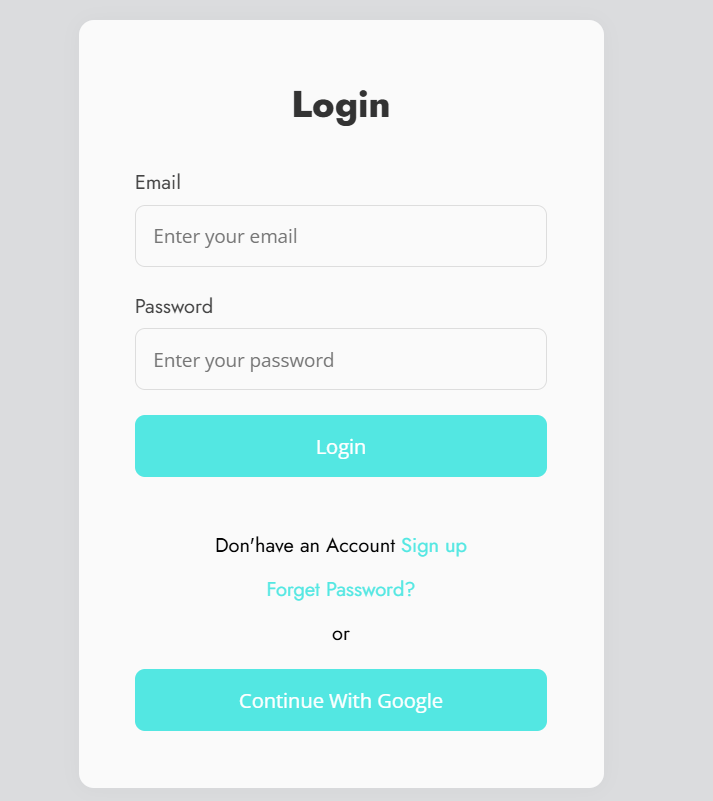
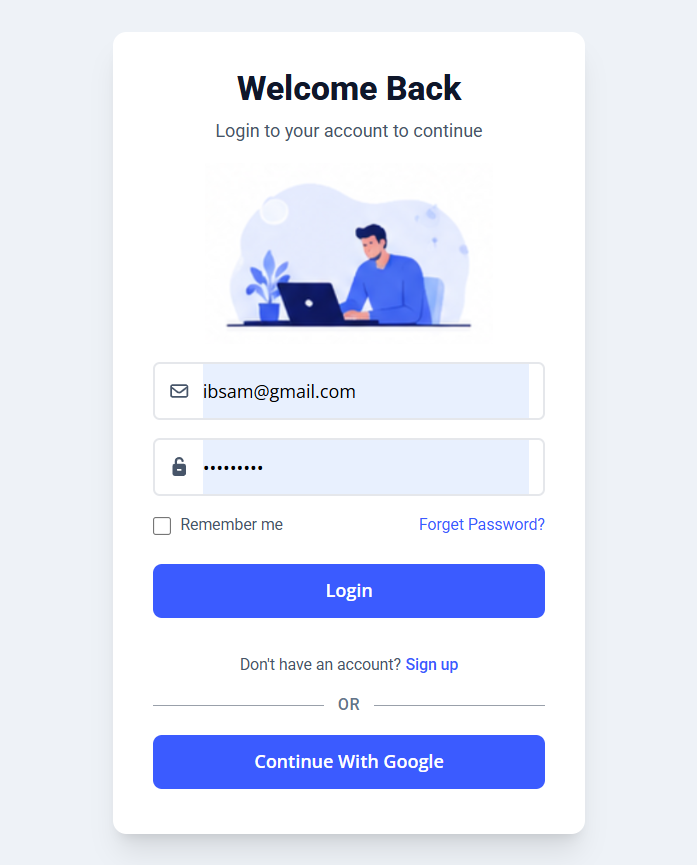
update

diff --git a/JavaScript/portfoliocleancode.js b/JavaScript/portfoliocleancode.js
@@ -8,24 +8,43 @@ class Project {
 }
 
 let react = [
+    // new Project(
+    //     'reacttodo.png',
+    //     'Fire',
+    //     'https://todo-list-app-by-react.surge.sh/',
+    //     'https://github.com/Hashir284/todo-list-app-react'
+    // ),
+    new Project(
+    'expense-tracker.png',
+    'React Expense Tracker',
+    'https://react-expense-tracker-app-chi.vercel.app/',
+    'https://github.com/Hashir284/react-expense-tracker-app'
+    ),
+    new Project(
+    'notes-app.png',
+    'Notes App',
+    'https://notes-app-react-gules.vercel.app/',
+    'https://github.com/Hashir284/notes-app-react'
+    ),
+    new Project(
+        'firebaseauthentication.png',
+        'React Firebase Auth & Firestore CRUD',
+        'https://login-signup-24a03.web.app/',
+        'https://github.com/Hashir284/login-signup-by-firebase'
+    ),
+    new Project(
+    'contextapi-login.png',
+    'React Auth with Context API & DummyJSON',
+    'https://contextapi-login.vercel.app/',
+    'https://github.com/Hashir284/contextapi-login'
+    ),
     new Project(
         'reacttodo.png',
         'React Todo List App',
         'https://todo-list-app-by-react.surge.sh/',
         'https://github.com/Hashir284/todo-list-app-react'
     ),
-    new Project(
-        'firebaseauthentication.png',
-        'Firebase Authentication System',
-        'https://login-signup-24a03.web.app/',
-        'https://github.com/Hashir284/login-signup-by-firebase'
-    ),
-    new Project(
-        'fb.png',
-        'Facebook Home Page UI Clone',
-        'https://react-first-ui-facebook-home-page.vercel.app/',
-        'https://github.com/Hashir284/react-first-ui-facebook-home-page'
-    ),
+
     new Project(
         'apiaxiosproject1.png',
         'Product Listing (Axios API)',
@@ -38,9 +57,21 @@ let react = [
         'https://react-recipe-api.surge.sh/',
         'https://github.com/Hashir284/react-recipe-api'
     ),
+    new Project(
+        'fb.png',
+        'Facebook Home Page UI Clone',
+        'https://react-first-ui-facebook-home-page.vercel.app/',
+        'https://github.com/Hashir284/react-first-ui-facebook-home-page'
+    ),
 ];
 
 let jsProjects = [
+    new Project(
+    'calculator.png',
+    'Calculator with Keyboard Support',
+    'https://hashir284.github.io/calculator-by-simple-javascript/',
+    'https://github.com/Hashir284/YOUR_REPO'
+    ),
         new Project(
         'profitapp.png',
         'Profit App by using local storage',
@@ -51,7 +82,7 @@ let jsProjects = [
         'loginsignup.png',
         'Login Signup by using local storage',
         'https://login-sign-up-by-local-storage.vercel.app',
-        'https://login-sign-up-by-local-storage.vercel.app'
+        'https://github.com/Hashir284/Login-SignUp-by-Local-Storage'
     ),
     new Project(
         'namaztimeapp.png',
@@ -60,10 +91,10 @@ let jsProjects = [
         'https://github.com/Hashir284/Find-Namaz-Time'
     ),
     new Project(
-        'weatherapp .png',
+        'weatherapp.png',
         'Weather App by Api integration',
         'https://login-sign-up-by-local-storage.vercel.app',
-        'https://login-sign-up-by-local-storage.vercel.app'
+        'https://github.com/Simple-Weather-App'
     ),
     new Project(
         'enentapp.png',

diff --git a/index.html b/index.html
@@ -477,6 +477,22 @@
                                 </a>
                             </div>
                         </div>
+                        <!-- Repo 5 -->
+                        <div class="portfolio-item">   
+                            <!-- padd-15 -->
+                            <div class="repo-card">
+                                <div class="repo-icon">
+                                    <i class="fa-brands fa-github"></i>
+                                </div>
+                                <h4 class="repo-title">Advance JavaScript</h4>
+                                <p class="repo-desc">
+  Repository for practicing and revising advanced JavaScript concepts, event handling, ES6+, and problem-solving exercises.
+                                </p>
+                                <a href="https://github.com/Hashir284/Advance-JavaScript" target="_blank" class="repo-btn">
+                                    View on GitHub
+                                </a>
+                            </div>
+                        </div>
 
                     </div>
                     </div>
